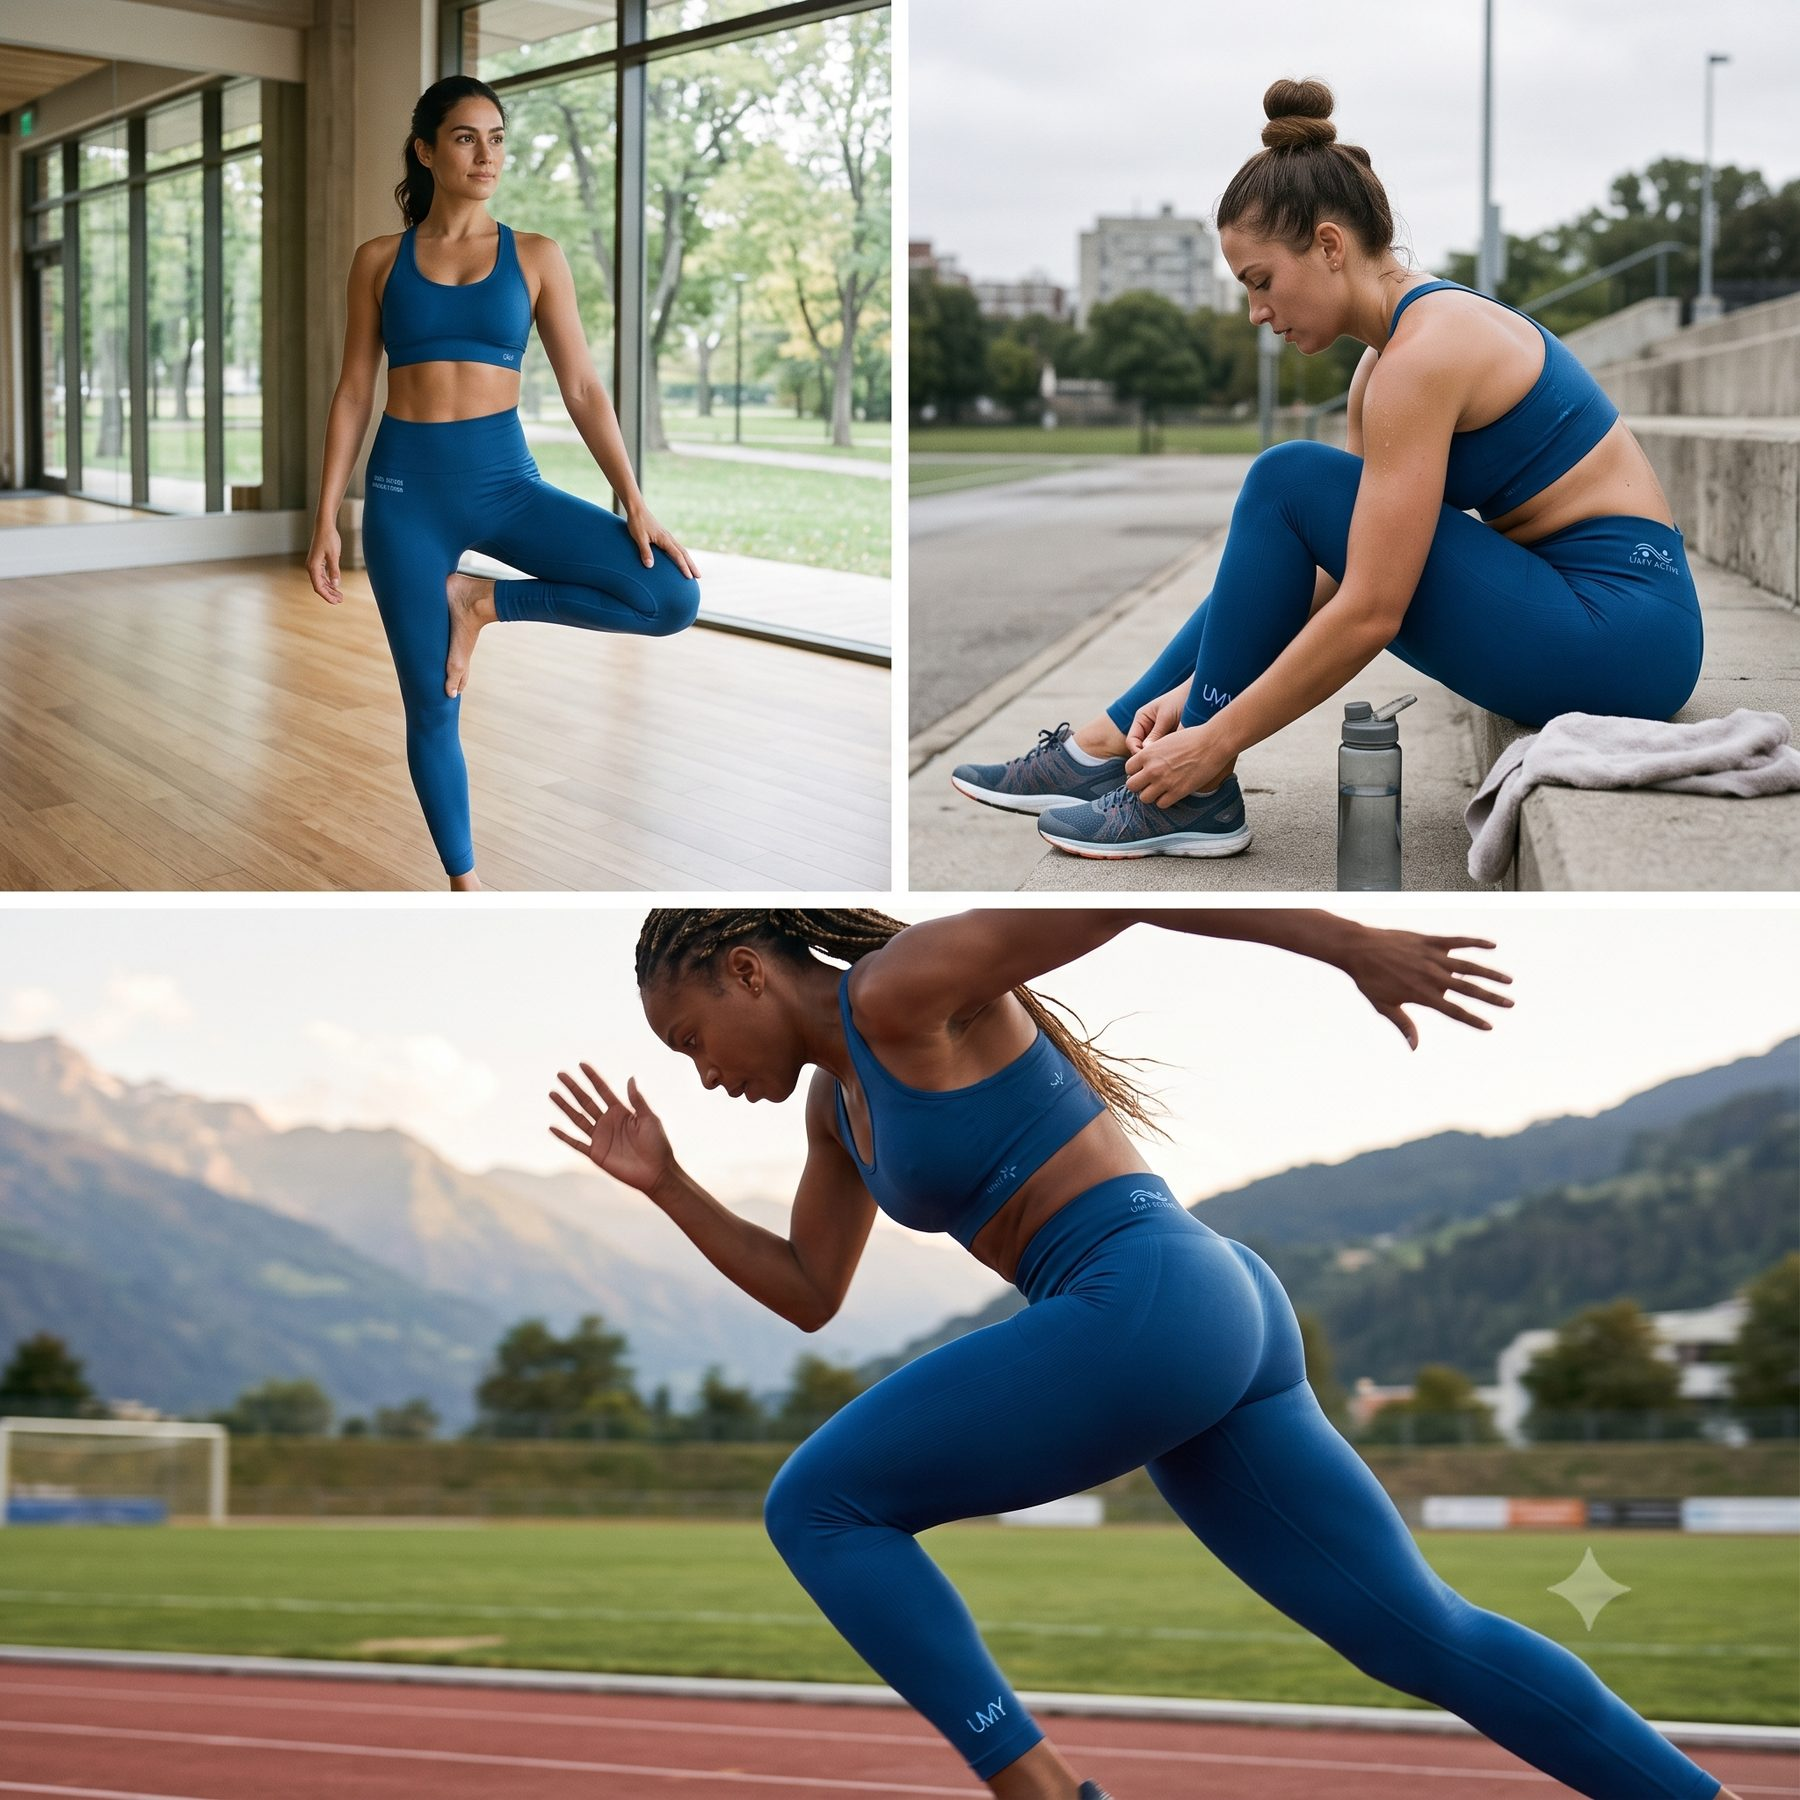
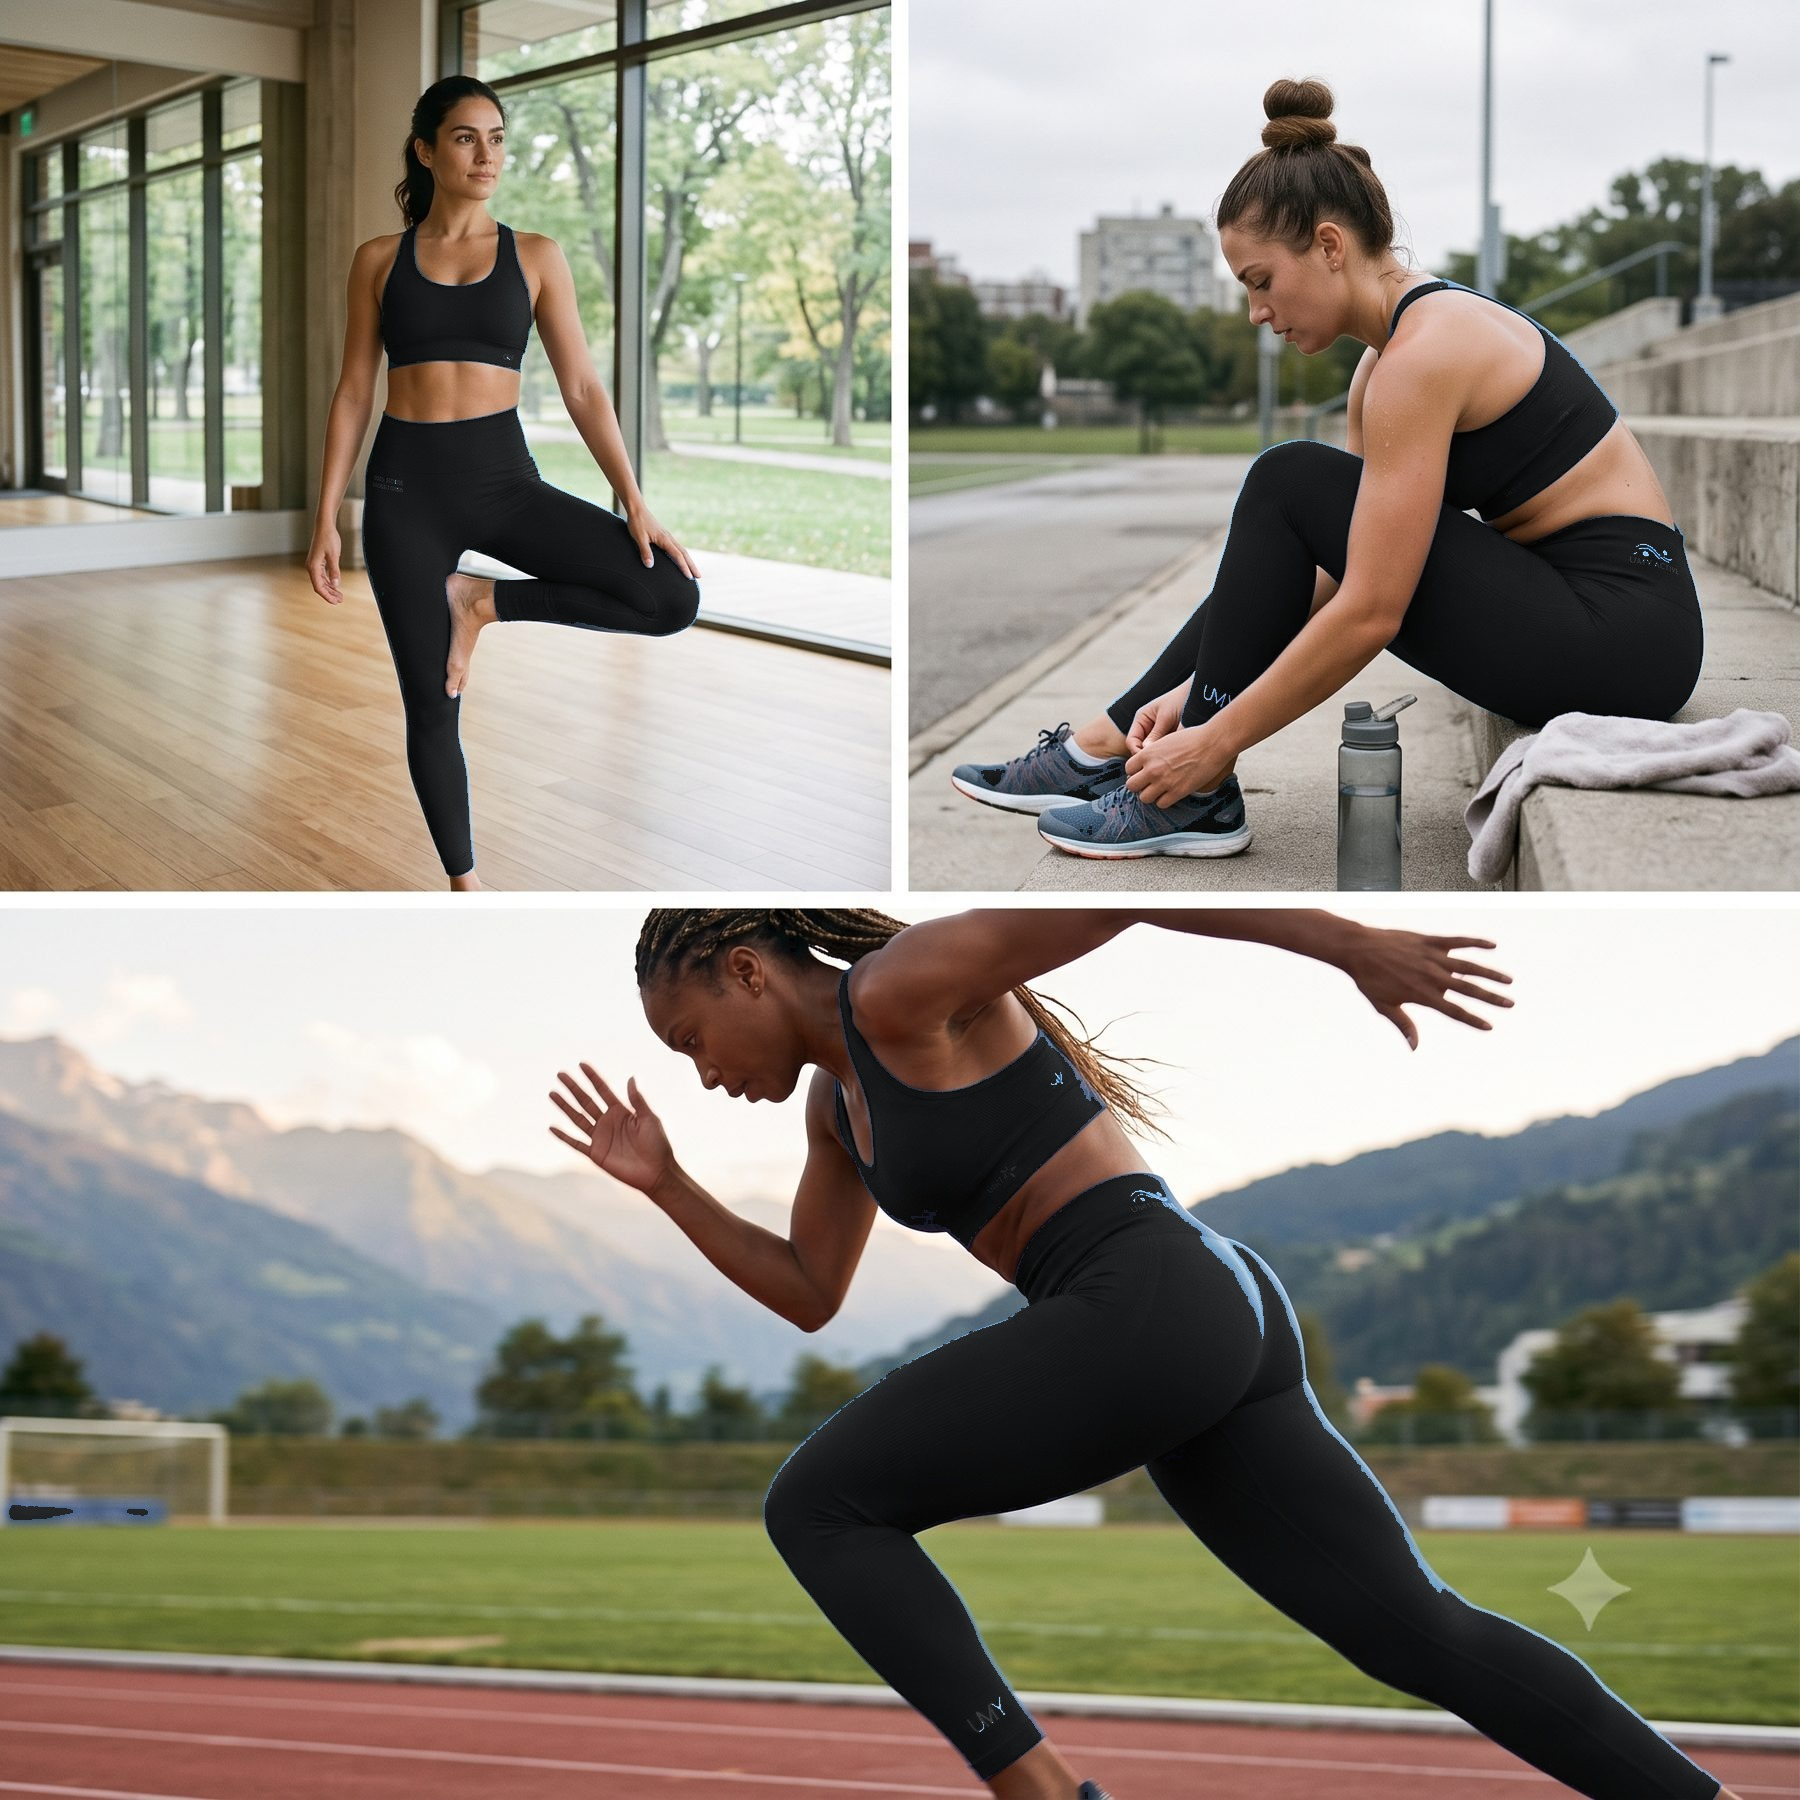
V2

diff --git a/index.html b/index.html
@@ -442,7 +442,7 @@
 
       <div class="hero-visual reveal">
         <img src="assets/lifestyle-collage.jpg" alt="Ensemble UMY ACTIVE porté en mouvement, en studio, en ville et sur piste">
-        <div class="hero-visual-tag">UMY BLUE — édition de lancement · brassière + legging seamless</div>
+        <div class="hero-visual-tag">UMY BLACK — édition de lancement · brassière + legging seamless</div>
       </div>
     </div>
   </section>
@@ -483,7 +483,7 @@
         <div class="pstep">
           <div class="pnum">01 — LA FIBRE</div>
           <h3>Co-tissage collagène</h3>
-          <p>Le fil technique seamless est co-tissé avec une fibre enrichie en collagène marin, intégrée à la structure même de la maille — pas en surface, pas en traitement lavable.</p>
+          <p>Le fil technique seamless est enrichi d'une fibre à base de collagène marin, fixée à la structure de la maille et libérée progressivement au contact de la peau et de la chaleur corporelle.</p>
         </div>
         <div class="pstep">
           <div class="pnum">02 — LE MOUVEMENT</div>
@@ -548,7 +548,7 @@
       <div class="sec-head reveal">
         <div class="eyebrow sec-eyebrow">La première collection</div>
         <h2>UMY ACTIVE — SET 01</h2>
-        <p>Un ensemble bleu profond, minimaliste et sculptant : brassière à dos nageur + legging taille haute. Conçu pour devenir l'essentiel que vous portez tous les jours, pas seulement à la salle.</p>
+        <p>Un ensemble noir profond, minimaliste et sculptant : brassière à dos nageur + legging taille haute. Conçu pour devenir l'essentiel que vous portez tous les jours, pas seulement à la salle.</p>
       </div>
 
       <div class="product-hero reveal">
@@ -620,7 +620,7 @@
             <div class="price-now">89€</div>
             <div class="price-was">112€</div>
           </div>
-          <div class="price-note">Set complet legging + brassière · UMY Blue · tarif réservé aux précommandes</div>
+          <div class="price-note">Set complet legging + brassière · UMY Black · tarif réservé aux précommandes</div>
 
           <div class="stock-bar">
             <div class="stock-track"><div class="stock-fill"></div></div>
@@ -670,6 +670,10 @@
         <div class="faq-item">
           <button class="faq-q"><span>Puis-je annuler ou me faire rembourser ?</span><span class="plus"></span></button>
           <div class="faq-a"><p>Oui. Vous pouvez annuler votre précommande et être intégralement remboursé à tout moment avant l'expédition de votre colis. Il vous suffit de nous écrire à contact@umyactive.com.</p></div>
+        </div>
+        <div class="faq-item">
+          <button class="faq-q"><span>Comment entretenir la matière pour préserver la fibre collagène ?</span><span class="plus"></span></button>
+          <div class="faq-a"><p>Nous recommandons un lavage à la main, à l'eau froide (moins de 30°C), sans essorage agressif. Comme tout actif intégré à une matière textile, son effet diminue progressivement au fil des lavages répétés — un entretien doux permet de préserver la fibre plus longtemps.</p></div>
         </div>
       </div>
     </div>
